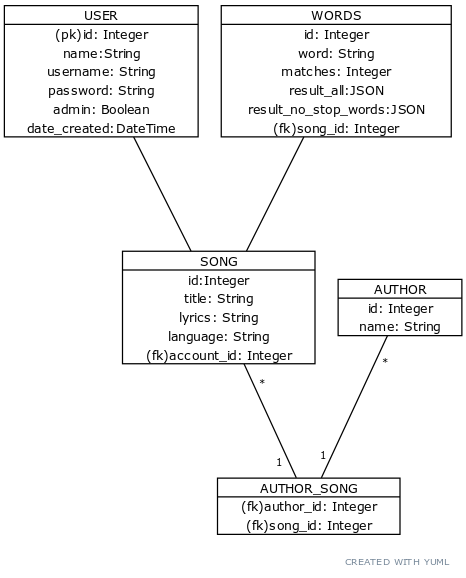
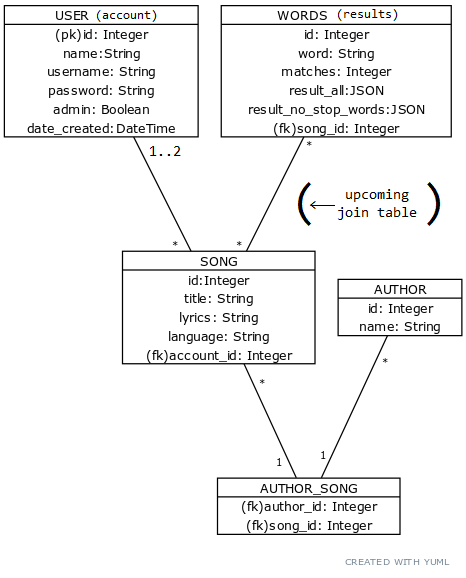
README update, licence

diff --git a/README.md b/README.md
@@ -6,13 +6,15 @@ Sovellus on selainpohjainen tietokantasovellus, jolla voi tarkastella tällä he
 
 Lyriikkatietokanta on haettu sivustolta [Worship Leader App](https://worshipleaderapp.com/en/download-song-database-opensong-openlp-and-quelea), sisältäen 57 kielen lyriikoita yhteensä 72098 kappaletta. Kyseessä on kristillisten laulujen tietokanta, joiden katsotaan olevan copyright-vapaita lähteitä.
 
-Sovellukseen on asetettu kuusi oletuslaulua kustakin kolmesta kielestä valmiiksi. Kun sovelluksen käynnistää ensimmäisen kerran ja tietokantataulut syntyvät, tulee laulut syöttää tauluihin. Tämä onnistuu kirjautumalla admin-tunnuksilla sisään, jolloin sivun alalaidassa näkyy kaksi nappia: *List users* ja *Add default songs*. Jälkimmäistä nappia painamalla laulut ja niiden tekijät syötetään automaattisesti omiin tauluihinsa sekä liitostiedot liitostauluun.
+Sovellus hyödyntää *Natural Language Toolkit* -nimistä palvelua ([NLTK](https://www.nltk.org/)), jonka materiaalin avulla voidaan tutkia lingvististä dataa. Sieltä on otettu tähän työhön toiminnot, joilla pilkut, pisteet ym. lisämerkit saa poistettua analysoitavasta datasta. Myös *Stopwordsit* kullekin kielelle on ladattu NLTK:sta. Ne ovat ns. turhia sanoja, kuten suomen *ja, jos, koska, kuin, mutta, niin, sekä, ...*, ja ne poistetaan datasta.
+
+Sovellukseen on asetettu kuusi oletuslaulua kustakin kolmesta kielestä valmiiksi. Kun sovelluksen käynnistää ensimmäisen kerran ja tietokantataulut syntyvät, tulee laulut syöttää tauluihin. Tämä onnistuu kirjautumalla admin-tunnuksilla sisään, jolloin sivun alalaidassa näkyy kolme nappia: *List users*, *Remove default songs* ja *Add default songs*. Viimeistä nappia painamalla laulut ja niiden tekijät syötetään automaattisesti omiin tauluihinsa sekä liitostiedot liitostauluun. Samoin ne saa tarvittaessa poistettua keskimmäisestä napista.
 
 ### Sovellus
 
 Sovelluksessa voi tehdä tällä hetkellä pikahakuja yksittäisistä sanoista erikseen kullakin kolmella kielellä. Ohjelma tulostaa etsityn sanan kokonaislukumäärän kyseisen kielen lauluista sekä erikseen lukumäärät kullekin laululle.
 
-Ohjelma näyttää myös pylväskuvaajan kyseisen kielen laulujen kymmenestä yleisimmästä sanasta. Lisäksi käyttäjä voi nappia painamalla tarkastella kunkin laulun (joista sana löytyi) kohdalla kymmentä yleisintä sanaa taulukkomuodossa tai kyseisiä laulutekstejä, joissa hakusana on merkattu.
+Ohjelma näyttää myös pylväskuvaajan kyseisen kielen laulujen kymmenestä yleisimmästä sanasta. Lisäksi käyttäjä voi nappia painamalla tarkastella kunkin laulun (joista sana löytyi) kohdalla kymmentä yleisintä sanaa taulukkomuodossa tai kyseisiä laulutekstejä, joissa hakusana on merkattu. Tulos esitetään ensin suodattamattomana, eli stopwordsit ovat mukana. Käyttäjä voi tällöin suodattaa tuloksen itse nappia painamalla. Kunkin haun tulokset voi erikseen tallentaa tietokantaan.
 
 Admin-rooli voi oletuslaulujen alkuinsertin lisäksi tarkastella rekisteröityneitä käyttäjiä ja poistaa niitä. Admin voi myös asettaa haluamalleen käyttäjälle admin-roolin tai palauttaa sen takaisin peruskäyttäjäksi. Tällä hetkellä oletustunnukset salasanoineen on kovakoodattu, koska on kyse kurssityöstä eikä *oikeasta* ohjelmasta, ja koska se helpottaa asioita esim. katselmuksen suhteen.
 
@@ -31,10 +33,9 @@ Löydät sovelluksen [täältä](https://lyrfreq.herokuapp.com/).
 - [x] sanahaun tulosten tarkastelu taulukkomuodossa, pylväskuvaajana, kohostettuna tekstinä ja lukumääränä
 
 ### Yhteenvetokyselyt
-- [x] kaikkien sanojen frekvenssit top 10(+)
-- [x] tietyn sanan esiintymät (laululista frekvensseineen)
+- [x] tietyn sanan esiintymät (laululista frekvensseineen) sekä ko. haun laulujen sanojen frekvenssit top 10(+)
 - [x] sanahakuhistorian summia ja keskiarvoja (SUM, AVG)
-- [x] tietokannan laulu, lauluntekijä ja kielitilanne (COUNT)
+- [x] tietokannan laulu-, lauluntekijä- ja kielitilanne (COUNT)
 - [ ] sanan esiintymisfrekvenssien vertailu kielittäin
 - [ ] lyhyiden sanayhdistelmien esiintymät ja frekvenssit
 
@@ -62,7 +63,7 @@ Linkissä [*User stories*](https://github.com/gitjms/Lyriikka-analysaattori/tree
 
 ## Tietokantakaavio
 
-<img src="https://user-images.githubusercontent.com/46410240/82905018-f7724680-9f6b-11ea-803a-96fcd9aeb6b1.png" alt="release" width="466" height="578" >
+<img src="https://user-images.githubusercontent.com/46410240/83227690-74c8d180-a18d-11ea-982f-d094c282417c.png" alt="release" width="466" height="578" >
 
 ## Myöhemmin mahdollisia lisäominaisuuksia
 

diff --git a/documentation/licence/licence.md b/documentation/licence/licence.md
@@ -1,0 +1,21 @@
+MIT License
+
+Copyright (c) 2020 Jari Sunnari
+
+Permission is hereby granted, free of charge, to any person obtaining a copy
+of this software and associated documentation files (the "Software"), to deal
+in the Software without restriction, including without limitation the rights
+to use, copy, modify, merge, publish, distribute, sublicense, and/or sell
+copies of the Software, and to permit persons to whom the Software is
+furnished to do so, subject to the following conditions:
+
+The above copyright notice and this permission notice shall be included in all
+copies or substantial portions of the Software.
+
+THE SOFTWARE IS PROVIDED "AS IS", WITHOUT WARRANTY OF ANY KIND, EXPRESS OR
+IMPLIED, INCLUDING BUT NOT LIMITED TO THE WARRANTIES OF MERCHANTABILITY,
+FITNESS FOR A PARTICULAR PURPOSE AND NONINFRINGEMENT. IN NO EVENT SHALL THE
+AUTHORS OR COPYRIGHT HOLDERS BE LIABLE FOR ANY CLAIM, DAMAGES OR OTHER
+LIABILITY, WHETHER IN AN ACTION OF CONTRACT, TORT OR OTHERWISE, ARISING FROM,
+OUT OF OR IN CONNECTION WITH THE SOFTWARE OR THE USE OR OTHER DEALINGS IN THE
+SOFTWARE.
